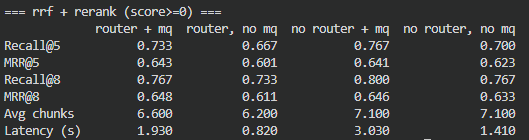
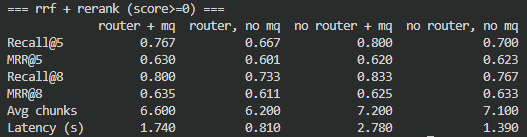
Refactor multi-query generation prompts

diff --git a/src/multi_query.py b/src/multi_query.py
@@ -12,12 +12,21 @@ def multi_query(user_q: str):
         response = ollama.chat(
             model="qwen3_5:latest",
             messages=[
-                {"role": "system", "content": "Напиши 3 альтернативных вопроса, которые помогут найти ответ в документации YOLO. Хотя бы один из них должен быть на английском языке. Английские названия только на английском языке. Ответь в формате JSON"},
+                {"role": "system", "content": """Ты помогаешь искать по базе YOLO.
+                Сгенерируй 3 поисковых запроса к исходному вопросу, английские названия только на английском языке. Хотя бы один вопрос должен быть на английском языке. Все запросы должны быть разными.
+                Виды запросов: 1) переформулированный запрос, 2) запрос с ключевыми словами, 3) запрос, как он мог бы звучать в документации.
+                Пример:
+                Вопрос: "Как настроить обучение модели YOLO?"
+                Правильные запросы:
+                1. "ultralytics model.train data epochs batch device"
+                2. "YOLO training configuration guide"
+                3. "yolo train data epochs batch device"
+                Ответь в формате JSON"""},
                 {"role": "user", "content": f"Вопрос: {user_q}"}
             ],
             think=False,
             format=QueryRequests.model_json_schema(),
-            options={'temperature': 0.4}
+            options={'temperature': 0.3}
         )
 
         validated_response = QueryRequests.model_validate_json(response['message']['content'])

diff --git a/src/main.py b/src/main.py
@@ -193,7 +193,9 @@ def routing(user_question: str, config: SearchConfig = None):
     try:
         if config.multi_query:
             all_queries = multi_query(user_question)
-            print(f"Альтернативные вопросы: {all_queries}")
+            print(f"Альтернативные вопросы:\n")
+            for i, question in enumerate(all_queries):
+                print(f"{i + 1}. {question}")
         else:
             all_queries = [user_question]
 
